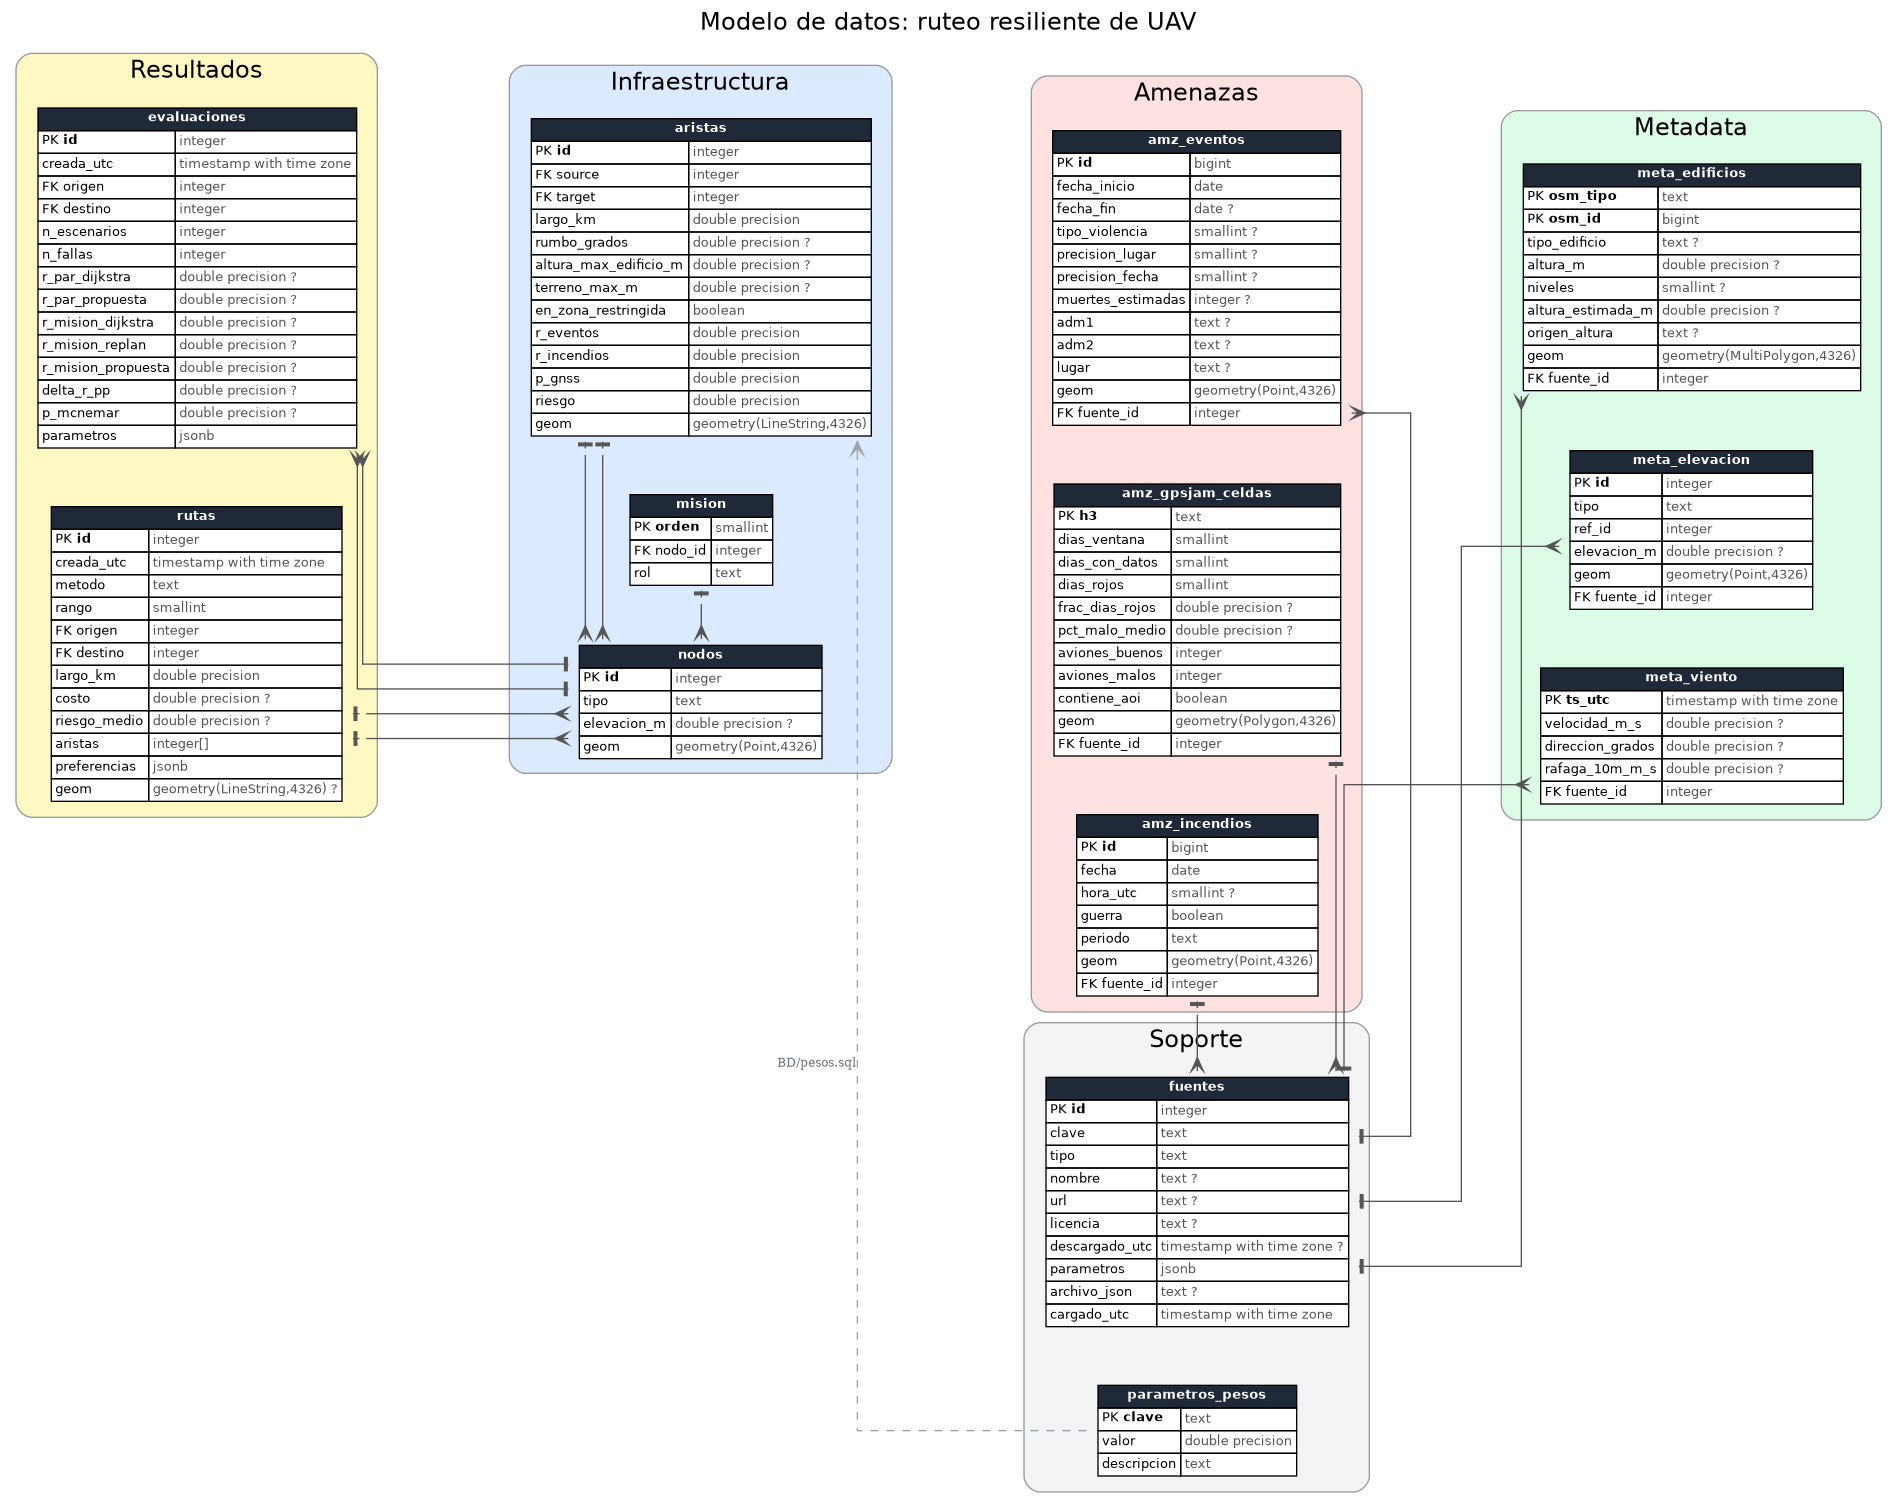
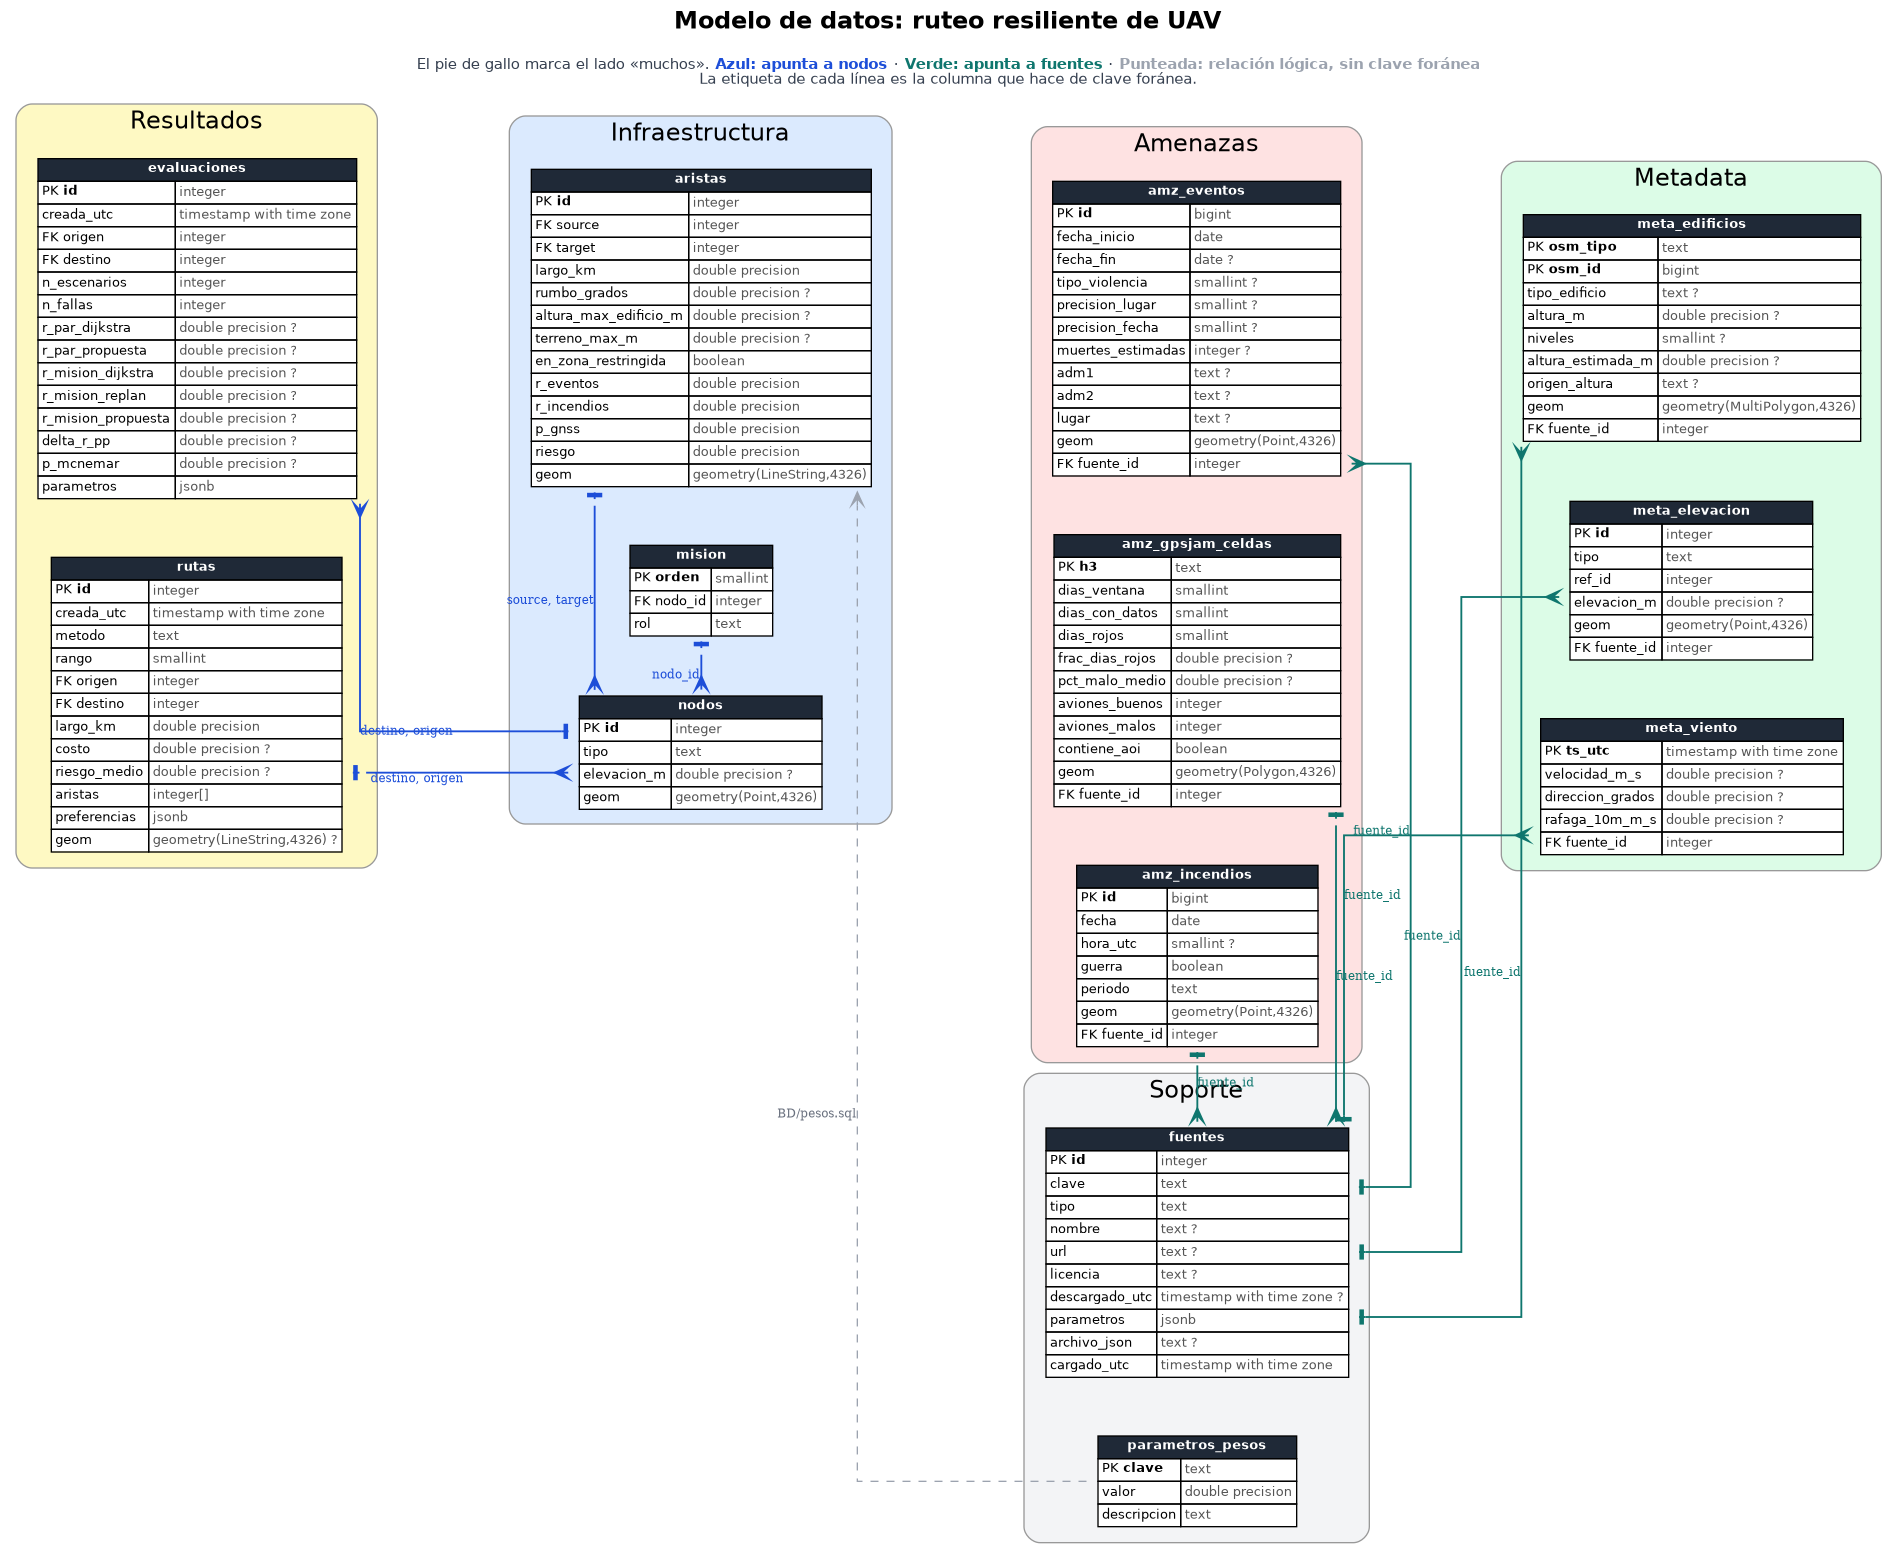
Diagrama de la BD: color por destino, etiquetas de FK y leyenda
Al unir tabla con tabla en vez de fila con fila, las líneas quedaron limpias
pero se perdió qué columna conecta con qué, y los seis cables que llegan a
fuentes eran indistinguibles entre sí.

Cada arista se colorea ahora según la tabla a la que apunta: azul hacia nodos,
verde azulado hacia fuentes. Se puede seguir un haz de un vistazo, sin recorrer
la línea. La columna que hace de clave foránea vuelve como etiqueta de la
arista, que es lo que se había perdido al sacar los puertos.

Las claves foráneas múltiples entre el mismo par de tablas se agrupan en una
sola línea etiquetada con todas sus columnas: aristas.source/target hacia nodos
dibujaba dos flechas idénticas superpuestas. Son 13 FK en 10 líneas.

El título incorpora la leyenda del código de color, para que la lámina se
entienda sola sin explicarla de viva voz.

Changed region(s): [[0.0, 0.0, 0.9953, 0.9973], [0.4043, 0.6857, 0.4665, 0.7168], [0.7464, 0.5922, 0.7775, 0.6233]]

diff --git a/05_T2/BD/diagrama_bd.py b/05_T2/BD/diagrama_bd.py
@@ -38,6 +38,25 @@ COLUMNAS = [
     ["Metadata"],
 ]
 
+# Color por tabla referenciada. Casi todas las FK apuntan a `fuentes` o a `nodos`: pintar cada haz
+# de un color deja seguir a dónde va una línea sin recorrerla con el dedo.
+COLOR_RELACION = {
+    "fuentes": "#0f766e",  # verde azulado: procedencia (quién cargó el dato)
+    "nodos": "#1d4ed8",    # azul: grafo de navegación
+}
+COLOR_OTRAS = "#6b7280"
+
+# Título con leyenda del código de color. Va en el propio diagrama para que la lámina se entienda
+# sola, sin que haya que explicar los colores de viva voz.
+LEYENDA = (
+    '<<FONT POINT-SIZE="18"><B>Modelo de datos: ruteo resiliente de UAV</B></FONT><BR/><BR/>'
+    '<FONT POINT-SIZE="11" COLOR="#374151">El pie de gallo marca el lado «muchos». '
+    '<FONT COLOR="#1d4ed8"><B>Azul: apunta a nodos</B></FONT> &#183; '
+    '<FONT COLOR="#0f766e"><B>Verde: apunta a fuentes</B></FONT> &#183; '
+    '<FONT COLOR="#9ca3af"><B>Punteada: relación lógica, sin clave foránea</B></FONT><BR/>'
+    'La etiqueta de cada línea es la columna que hace de clave foránea.</FONT>>'
+)
+
 # parametros_pesos no tiene clave foránea: es la tabla de constantes que lee BD/pesos.sql
 # para calcular las columnas de riesgo y restricción de `aristas`. Sin esta arista el lector
 # la ve suelta y no entiende para qué está. Se dibuja punteada para no confundirla con una FK.
@@ -101,8 +120,7 @@ def dibujar(columnas, pk, fk) -> graphviz.Digraph:
     # newrank=true es imprescindible para que rank=same funcione entre clusters distintos.
     dot = graphviz.Digraph("bd", graph_attr={"rankdir": "LR", "newrank": "true", "splines": "ortho",
                                              "fontname": "Helvetica", "nodesep": "0.5", "ranksep": "1.6",
-                                             "label": "Modelo de datos: ruteo resiliente de UAV",
-                                             "labelloc": "t", "fontsize": "18"},
+                                             "label": LEYENDA, "labelloc": "t", "fontsize": "18"},
                            node_attr={"shape": "plaintext", "fontname": "Helvetica", "fontsize": "10"},
                            edge_attr={"color": "#555555", "arrowhead": "crow", "arrowtail": "tee", "dir": "both"})
     con_fk = {(t, c) for t, c, _, _ in fk}
@@ -140,10 +158,17 @@ def dibujar(columnas, pk, fk) -> graphviz.Digraph:
 
     # constraint=false: las FK ya no deciden la posición, solo se dibujan sobre la rejilla.
     # Se unen tabla con tabla y no fila con fila: anclar a un PORT hace que splines=ortho deje de
-    # esquivar las cajas y las líneas terminen cruzando por encima de otras tablas. Qué columna es
-    # la clave foránea se sigue leyendo en la marca FK de cada fila.
-    for tabla, columna, ref, columna_ref in fk:
-        dot.edge(ref, tabla, constraint="false")
+    # esquivar las cajas y las líneas terminen cruzando por encima de otras tablas. A cambio, la
+    # columna que es clave foránea se recupera con la etiqueta de la arista.
+    # Varias FK entre el mismo par de tablas (aristas.source y .target -> nodos) van en UNA línea
+    # etiquetada con ambas: dibujar dos flechas idénticas superpuestas no aporta nada.
+    agrupadas: dict[tuple[str, str], list[str]] = {}
+    for tabla, columna, ref, _ in fk:
+        agrupadas.setdefault((ref, tabla), []).append(columna)
+    for (ref, tabla), cols in sorted(agrupadas.items()):
+        color = COLOR_RELACION.get(ref, COLOR_OTRAS)
+        dot.edge(ref, tabla, constraint="false", color=color, penwidth="1.4",
+                 xlabel=", ".join(sorted(cols)), fontsize="9", fontcolor=color)
     for origen, destino, etiqueta in RELACIONES_LOGICAS:
         if origen in columnas and destino in columnas:
             # xlabel y no label: splines=ortho no sabe dibujar etiquetas sobre la arista.
